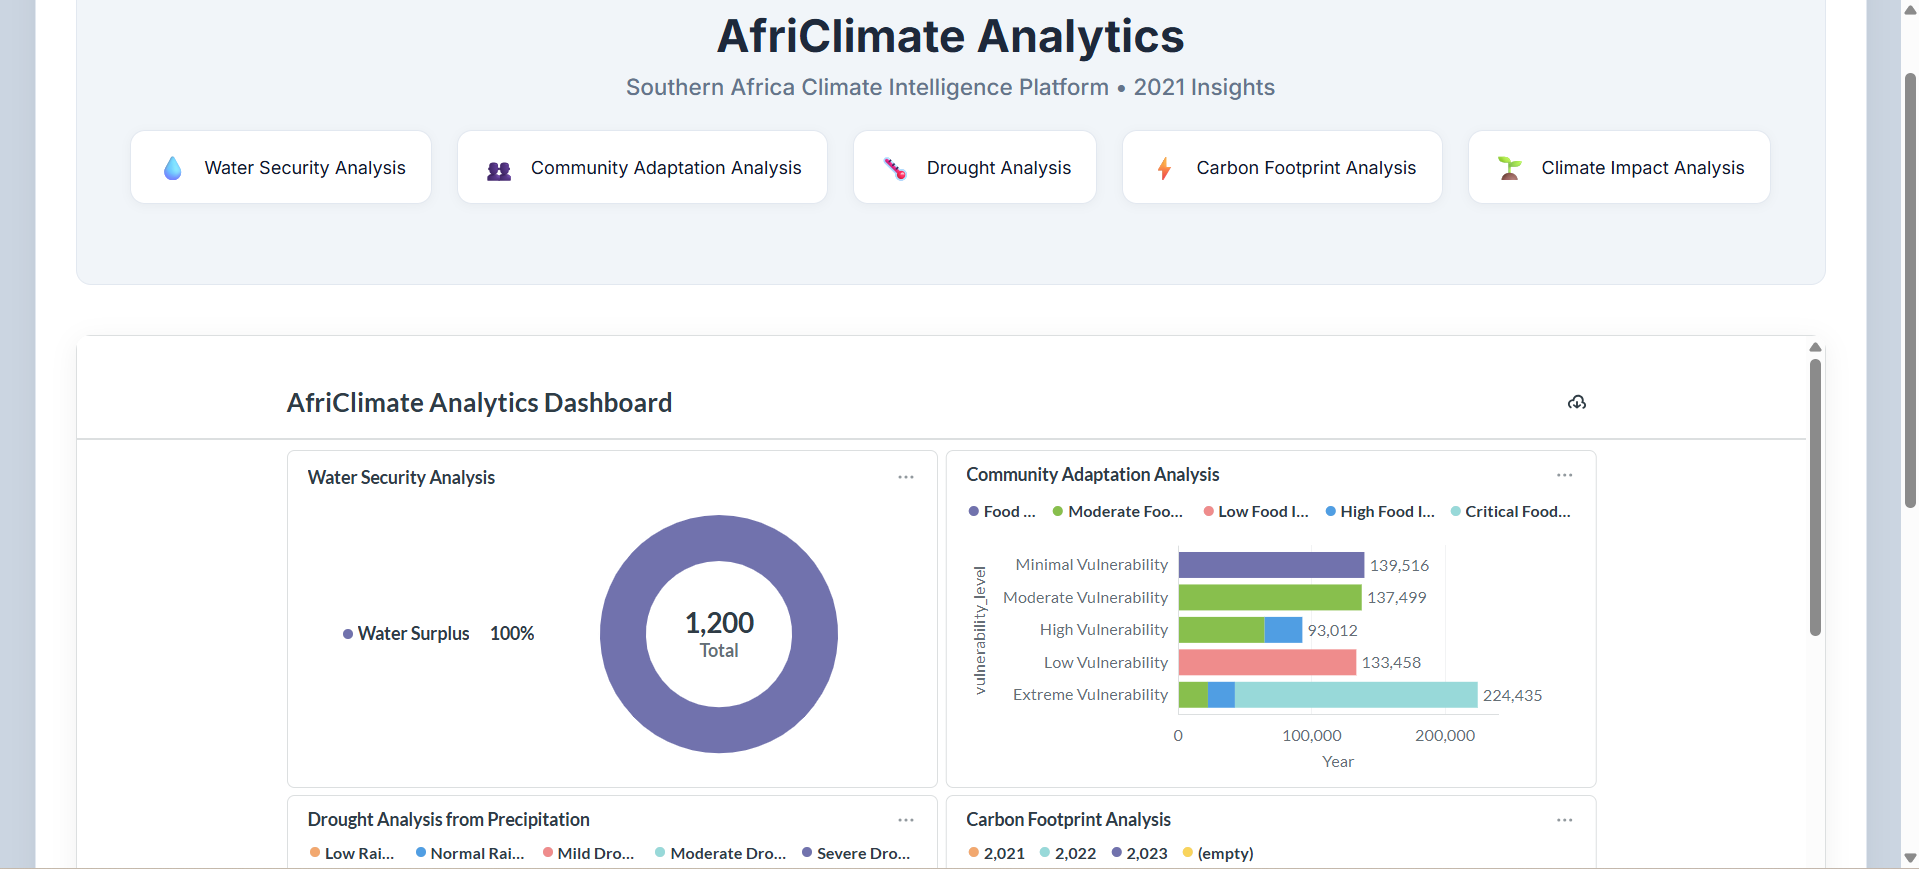
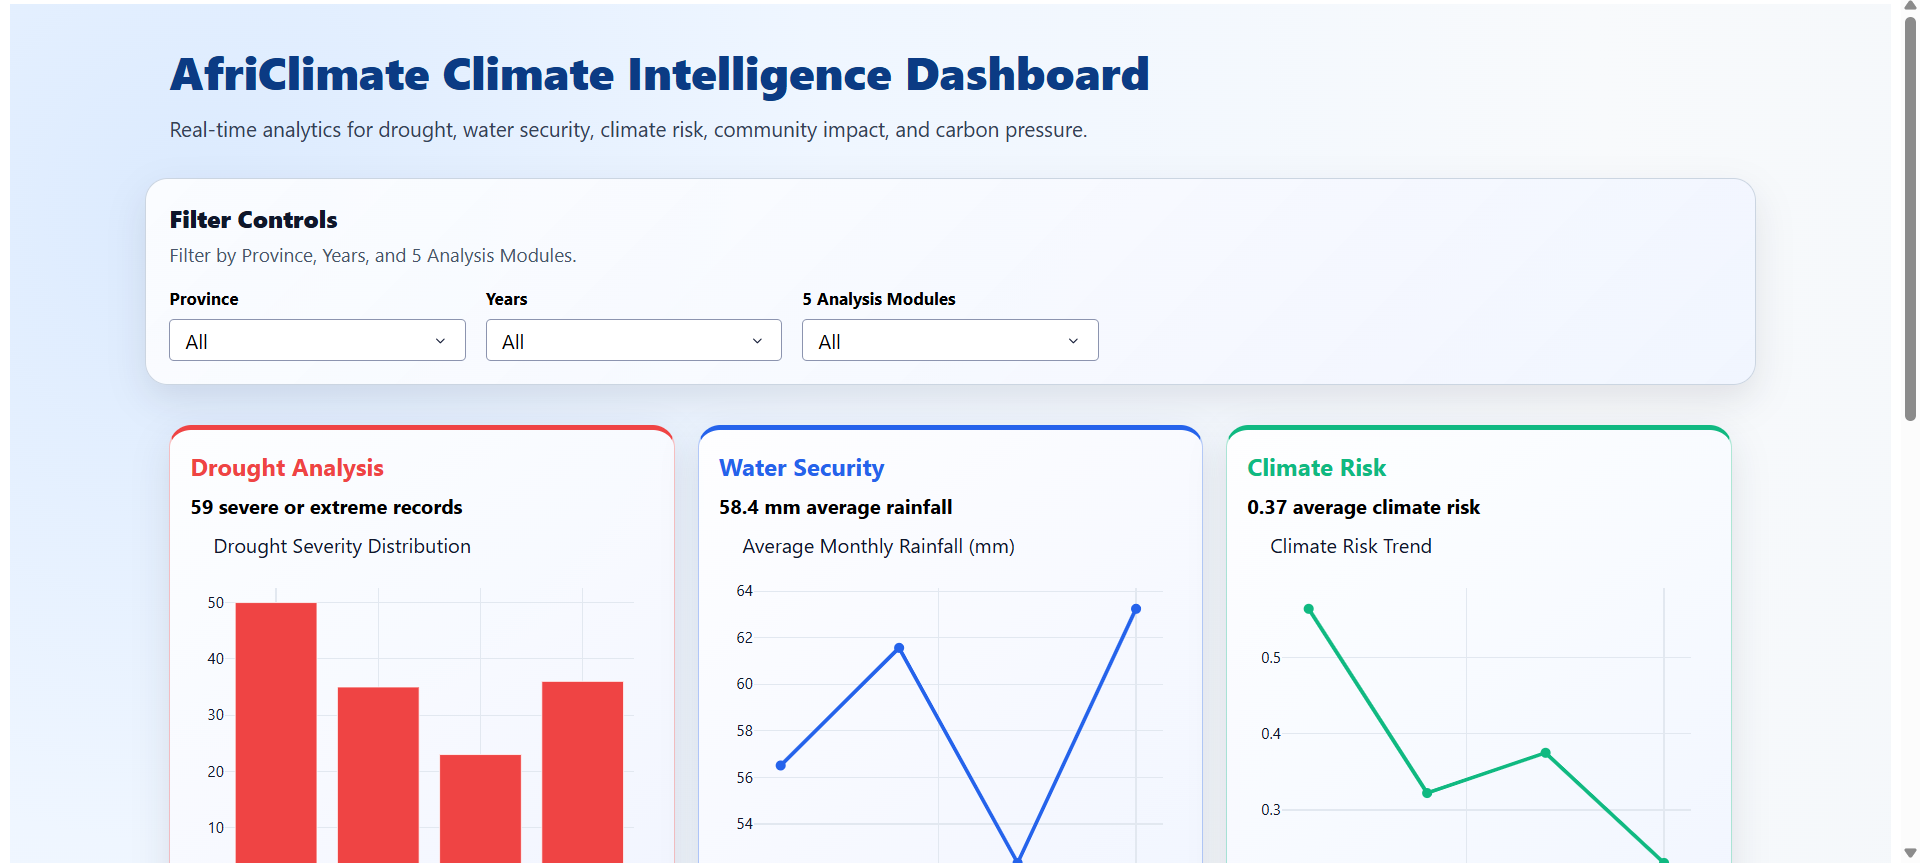
Align portfolio projects and content with latest repos

diff --git a/index.html b/index.html
@@ -3,20 +3,20 @@
 <head>
   <meta charset="utf-8" />
   <meta name="viewport" content="width=device-width,initial-scale=1" />
-  <title>Kutlwano Take — Full-Stack & Cloud Developer Portfolio</title>
-  <meta name="description" content="Full-Stack & Cloud Developer portfolio — AWS, React, Node.js, Terraform, serverless architectures." />
+  <title>Kutlwano Take - Full-Stack & Cloud Engineer Portfolio</title>
+  <meta name="description" content="Full-Stack & Cloud Engineer portfolio featuring AWS serverless apps, TypeScript and React frontends, Python analytics dashboards, and Terraform Infrastructure-as-Code." />
   <link rel="canonical" href="https://kutlwano-portfolio.vercel.app/">
   
   <meta property="og:type" content="website">
   <meta property="og:url" content="https://kutlwano-portfolio.vercel.app/">
-  <meta property="og:title" content="Kutlwano Take — Full-Stack & Cloud Developer Portfolio">
-  <meta property="og:description" content="Full-Stack & Cloud Developer specializing in AWS, React, Node.js, Terraform, and serverless architectures.">
+  <meta property="og:title" content="Kutlwano Take - Full-Stack & Cloud Engineer Portfolio">
+  <meta property="og:description" content="Full-Stack & Cloud Engineer specializing in AWS serverless architecture, TypeScript apps, Python analytics, and Terraform IaC.">
   <meta property="og:image" content="https://kutlwano-portfolio.vercel.app/images/profile.jp.jpeg">
   
   <meta property="twitter:card" content="summary_large_image">
   <meta property="twitter:url" content="https://kutlwano-portfolio.vercel.app/">
-  <meta property="twitter:title" content="Kutlwano Take — Full-Stack & Cloud Developer Portfolio">
-  <meta property="twitter:description" content="Full-Stack & Cloud Developer specializing in AWS, React, Node.js, Terraform, and serverless architectures.">
+  <meta property="twitter:title" content="Kutlwano Take - Full-Stack & Cloud Engineer Portfolio">
+  <meta property="twitter:description" content="Full-Stack & Cloud Engineer specializing in AWS serverless architecture, TypeScript apps, Python analytics, and Terraform IaC.">
   <meta property="twitter:image" content="https://kutlwano-portfolio.vercel.app/images/profile.jp.jpeg">
   
   <link rel="preconnect" href="https://fonts.googleapis.com">
@@ -34,7 +34,7 @@
       <div>
         <div class="name">Kutlwano Take</div>
         <div class="tagline">
-          Full-Stack & Cloud Developer | AWS Certified Developer Associate 2025
+          Full-Stack & Cloud Engineer | AWS Certified Developer Associate
         </div>
       </div>
     </div>
@@ -64,8 +64,8 @@
           <img src="images/profile.jp.jpeg" alt="Kutlwano Take" class="hero-image">
         </div>
         <h1 id="hero-title">Kutlwano Take</h1>
-        <p class="hero-subtitle">Full-Stack & Cloud Developer</p>
-        <p class="hero-bio">I design and develop scalable, production-ready applications using modern JavaScript, cloud architectures, and Infrastructure-as-Code. Specializing in AWS serverless solutions, React frontends, and secure backend systems.</p>
+        <p class="hero-subtitle">Full-Stack & Cloud Engineer</p>
+        <p class="hero-bio">I build production-grade cloud applications end-to-end: AWS serverless backends, TypeScript and React frontends, Terraform Infrastructure-as-Code, and Python analytics dashboards.</p>
         <div class="hero-actions">
           <a href="#projects" class="btn btn-primary">View Projects</a>
           <a href="#contact" class="btn btn-secondary">Contact Me</a>
@@ -77,8 +77,8 @@
       <div class="container">
         <h2 id="about-title">About Me</h2>
         <div class="content-card">
-          <p>I'm a Johannesburg-based Full-Stack & Cloud Engineer passionate about building fast, accessible, and production-ready applications. I specialise in modern JavaScript ecosystems (Vanilla JS, React, Node.js, Express), advanced prompt engineering with Google Gemini 1.5 Flash, and serverless architectures on AWS-Elastic Beanstalk, Lambda with Function URLs, RDS MySQL, IAM, Security Groups, API proxying, and CORS-hardened deployments in af-south-1.</p>
-          <p>I'm comfortable shipping responsive front-ends, designing secure back-ends, crafting CI/CD workflows with Git and Vercel, debugging complex cloud networking issues, and delivering everything from rapid prototypes to fully persistent, production-grade systems. AWS Certified Developer Associate 2025 holder with a love for clean code, thoughtful UX, and that satisfying moment when the console finally stays quiet. Coffee, soul music, and tough bugs keep me going.</p>
+          <p>I am a Johannesburg-based Full-Stack & Cloud Engineer focused on building secure, scalable applications across AWS and modern web platforms. My core stack spans AWS serverless services, Terraform IaC, TypeScript/React development, and Python data workflows.</p>
+          <p>Recent repository work includes AfriClimate Analytics Lake (Python, Dash, Plotly, Athena), SpendGuard (TypeScript serverless expense tracking on AWS), AWS Scalable To-Do App (React, Lambda, DynamoDB, Terraform), and Landmark Track (Next.js, TypeScript, Supabase). I prioritize reliable deployments, clean architecture, and practical user-centered design.</p>
         </div>
 
         <div class="certifications-card">
@@ -113,21 +113,25 @@
             <img src="https://cdn.jsdelivr.net/gh/devicons/devicon/icons/javascript/javascript-original.svg" alt="JavaScript" class="skill-logo">
             <span class="skill-name">JavaScript</span>
           </div>
+          <div class="skill-item" title="TypeScript">
+            <img src="https://cdn.jsdelivr.net/gh/devicons/devicon/icons/typescript/typescript-original.svg" alt="TypeScript" class="skill-logo">
+            <span class="skill-name">TypeScript</span>
+          </div>
+          <div class="skill-item" title="Python">
+            <img src="https://cdn.jsdelivr.net/gh/devicons/devicon/icons/python/python-original.svg" alt="Python" class="skill-logo">
+            <span class="skill-name">Python</span>
+          </div>
           <div class="skill-item" title="React">
             <img src="https://cdn.jsdelivr.net/gh/devicons/devicon/icons/react/react-original.svg" alt="React" class="skill-logo">
             <span class="skill-name">React</span>
           </div>
-          <div class="skill-item" title="Vite">
-            <img src="https://cdn.jsdelivr.net/gh/devicons/devicon/icons/vitejs/vitejs-original.svg" alt="Vite" class="skill-logo">
-            <span class="skill-name">Vite</span>
+          <div class="skill-item" title="Next.js">
+            <img src="https://cdn.jsdelivr.net/gh/devicons/devicon/icons/nextjs/nextjs-original.svg" alt="Next.js" class="skill-logo">
+            <span class="skill-name">Next.js</span>
           </div>
           <div class="skill-item" title="Node.js">
             <img src="https://cdn.jsdelivr.net/gh/devicons/devicon/icons/nodejs/nodejs-original.svg" alt="Node.js" class="skill-logo">
             <span class="skill-name">Node.js</span>
-          </div>
-          <div class="skill-item" title="Express">
-            <img src="https://cdn.jsdelivr.net/gh/devicons/devicon/icons/express/express-original.svg" alt="Express" class="skill-logo">
-            <span class="skill-name">Express</span>
           </div>
           <div class="skill-item" title="AWS">
             <img src="https://cdn.jsdelivr.net/gh/devicons/devicon/icons/amazonwebservices/amazonwebservices-original.svg" alt="AWS" class="skill-logo">
@@ -137,6 +141,14 @@
             <img src="https://cdn.jsdelivr.net/gh/devicons/devicon/icons/terraform/terraform-original.svg" alt="Terraform" class="skill-logo">
             <span class="skill-name">Terraform</span>
           </div>
+          <div class="skill-item" title="Tailwind CSS">
+            <img src="https://cdn.jsdelivr.net/gh/devicons/devicon/icons/tailwindcss/tailwindcss-original.svg" alt="Tailwind CSS" class="skill-logo">
+            <span class="skill-name">Tailwind CSS</span>
+          </div>
+          <div class="skill-item" title="Supabase">
+            <img src="https://cdn.jsdelivr.net/gh/devicons/devicon/icons/supabase/supabase-original.svg" alt="Supabase" class="skill-logo">
+            <span class="skill-name">Supabase</span>
+          </div>
           <div class="skill-item" title="Git">
             <img src="https://cdn.jsdelivr.net/gh/devicons/devicon/icons/git/git-original.svg" alt="Git" class="skill-logo">
             <span class="skill-name">Git</span>
@@ -144,14 +156,6 @@
           <div class="skill-item" title="GitHub">
             <img src="https://cdn.jsdelivr.net/gh/devicons/devicon/icons/github/github-original.svg" alt="GitHub" class="skill-logo">
             <span class="skill-name">GitHub</span>
-          </div>
-          <div class="skill-item" title="Docker">
-            <img src="https://cdn.jsdelivr.net/gh/devicons/devicon/icons/docker/docker-original.svg" alt="Docker" class="skill-logo">
-            <span class="skill-name">Docker</span>
-          </div>
-          <div class="skill-item" title="Kubernetes">
-            <img src="https://cdn.jsdelivr.net/gh/devicons/devicon/icons/kubernetes/kubernetes-plain.svg" alt="Kubernetes" class="skill-logo">
-            <span class="skill-name">Kubernetes</span>
           </div>
         </div>
       </div>
@@ -162,34 +166,36 @@
         <h2 id="projects-title">Selected Projects</h2>
         <div class="projects-grid" id="projects-grid">
 
-          <article class="project-card" aria-labelledby="p1">
-            <img src="images/aws-todo-app.png" alt="Screenshot of AWS Scalable To-Do List application showing a dark-themed interface with to-do items" loading="lazy" class="project-image">
+          <article class="project-card project-africlimate" aria-labelledby="p1">
+            <img src="images/africlimate-dashboard-screenshot.png" alt="Screenshot of AfriClimate Analytics Dash application showing drought, water security, climate risk, community impact, and carbon analytics modules" loading="lazy" class="project-image">
             <div class="project-content">
-              <h3 id="p1">AWS Scalable To-Do List App</h3>
-              <p>Full-stack serverless application with DynamoDB storage, S3 + CloudFront frontend, Lambda + API Gateway backend, and Terraform infrastructure. Features production-ready security and scalable cloud architecture.</p>
+              <h3 id="p1">AfriClimate Analytics Lake - Climate Intelligence Platform</h3>
+              <p>Production-ready climate analytics platform for Southern Africa with a serverless AWS data pipeline and live Dash application. It ingests CHIRPS climate data into S3, processes it with Lambda, catalogs data in Glue, and serves analytics through Athena with an interactive 5-module dashboard for drought, water security, climate risk, community impact, and carbon insights. Deployed on Render with Gunicorn and a fallback dataset mode for reliable public demo access.</p>
               <div class="tech-stack">
-                <span class="pill">HTML</span>
-                <span class="pill">CSS</span>
-                <span class="pill">JavaScript</span>
-                <span class="pill">Node.js (Lambda)</span>
-                <span class="pill">Terraform (IaC)</span>
+                <span class="pill">Python 3.11</span>
+                <span class="pill">Dash</span>
+                <span class="pill">Plotly</span>
                 <span class="pill">AWS S3</span>
-                <span class="pill">CloudFront</span>
-                <span class="pill">API Gateway</span>
-                <span class="pill">Lambda</span>
-                <span class="pill">DynamoDB</span>
+                <span class="pill">AWS Lambda</span>
+                <span class="pill">AWS Glue</span>
+                <span class="pill">Amazon Athena</span>
+                <span class="pill">Boto3</span>
+                <span class="pill">Pandas</span>
+                <span class="pill">Render</span>
+                <span class="pill">Gunicorn</span>
+                <span class="pill">CHIRPS Data</span>
               </div>
               <div class="project-actions">
-                <a class="btn" href="https://dnz0gkceadoio.cloudfront.net/" target="_blank" rel="noopener" aria-label="View AWS To-Do List App live">View Live</a>
-                <a class="btn btn-secondary" href="https://github.com/Kutlwano-Take/aws-scalable-todo-app" target="_blank" rel="noopener" aria-label="View AWS To-Do List App on GitHub">GitHub</a>
+                <a class="btn" href="https://africlimate-analytics-lake.onrender.com/" target="_blank" rel="noopener" aria-label="View AfriClimate Analytics live">View Live</a>
+                <a class="btn btn-secondary" href="https://github.com/Kutlwano-Take/africlimate-analytics-lake" target="_blank" rel="noopener" aria-label="View AfriClimate Analytics on GitHub">GitHub</a>
               </div>
             </div>
           </article>
 
-          <article class="project-card" aria-labelledby="p2">
+          <article class="project-card project-spendguard" aria-labelledby="p2">
             <img src="images/spendguard-screenshot.png" alt="Screenshot of SpendGuard personal expense tracker dashboard showing budget progress rings, expense list, and alerts" loading="lazy" class="project-image">
             <div class="project-content">
-              <h3 id="p2">SpendGuard – Smart Personal Expense & Budget Tracker</h3>
+              <h3 id="p2">SpendGuard - Smart Personal Expense & Budget Tracker</h3>
               <p>Production-ready, full-stack serverless expense tracker that helps users monitor spending, set category budgets, receive real-time overspending alerts, and gain AI-powered insights. Features secure authentication, receipt OCR scanning, progress visualizations, and predictive analytics, all built with a clean, premium UX.</p>
               <div class="tech-stack">
                 <span class="pill">React + TypeScript</span>
@@ -210,26 +216,26 @@
             </div>
           </article>
 
-          <article class="project-card" aria-labelledby="p3">
-            <img src="images/africlimate-dashboard-screenshot.png" alt="Screenshot of AfriClimate Analytics Dashboard showing interactive climate data visualizations with precipitation maps, drought analysis, and water security metrics" loading="lazy" class="project-image">
+          <article class="project-card project-todo" aria-labelledby="p3">
+            <img src="images/aws-todo-app.png" alt="Screenshot of AWS Scalable To-Do List application showing a dark-themed interface with to-do items" loading="lazy" class="project-image">
             <div class="project-content">
-              <h3 id="p3">AfriClimate Analytics – Climate Intelligence Platform</h3>
-              <p>Serverless climate intelligence platform for Southern Africa featuring real-time drought monitoring, water security analysis, and climate impact tracking. Built with AWS serverless architecture, processing 536 CHIRPS satellite data files (2.9 GiB) with automated ETL pipelines. Features interactive dashboards, 5 creative extensions for farmers/water managers/conservationists, and professional Metabase visualizations deployed on S3.</p>
+              <h3 id="p3">AWS Scalable To-Do List App</h3>
+              <p>Production-ready full-stack serverless To-Do application with a React + TypeScript (Vite) frontend on S3 + CloudFront, AWS Lambda + API Gateway backend services, DynamoDB persistence, and Terraform-managed infrastructure.</p>
               <div class="tech-stack">
-                <span class="pill">AWS S3</span>
+                <span class="pill">React</span>
+                <span class="pill">TypeScript</span>
+                <span class="pill">Vite</span>
                 <span class="pill">AWS Lambda</span>
-                <span class="pill">AWS Glue</span>
-                <span class="pill">Amazon Athena</span>
-                <span class="pill">Metabase</span>
-                <span class="pill">Python</span>
-                <span class="pill">Docker</span>
-                <span class="pill">CHIRPS Data</span>
-                <span class="pill">Serverless Architecture</span>
-                <span class="pill">Data Engineering</span>
+                <span class="pill">Amazon API Gateway</span>
+                <span class="pill">DynamoDB</span>
+                <span class="pill">AWS S3</span>
+                <span class="pill">CloudFront</span>
+                <span class="pill">Terraform</span>
+                <span class="pill">CloudWatch</span>
               </div>
               <div class="project-actions">
-                <a class="btn" href="https://africlimate-dashboard-public.s3.af-south-1.amazonaws.com/index.html" target="_blank" rel="noopener" aria-label="View AfriClimate Analytics live">View Live</a>
-                <a class="btn btn-secondary" href="https://github.com/Kutlwano-Take/africlimate-analytics-lake" target="_blank" rel="noopener" aria-label="View AfriClimate Analytics on GitHub">GitHub</a>
+                <a class="btn" href="https://dnz0gkceadoio.cloudfront.net/" target="_blank" rel="noopener" aria-label="View AWS To-Do List App live">View Live</a>
+                <a class="btn btn-secondary" href="https://github.com/Kutlwano-Take/aws-scalable-todo-app" target="_blank" rel="noopener" aria-label="View AWS To-Do List App on GitHub">GitHub</a>
               </div>
             </div>
           </article>
@@ -263,7 +269,7 @@
 
           <div class="form-group">
             <label for="message">Message</label>
-            <textarea id="message" name="message" rows="6" required placeholder="Hey Kutlwano, I came across your portfolio and…"></textarea>
+            <textarea id="message" name="message" rows="6" required placeholder="Hey Kutlwano, I came across your portfolio and..."></textarea>
           </div>
 
           <button type="submit" class="btn btn-primary">Send Message</button>
@@ -282,7 +288,7 @@
 
   <footer>
     <div class="footer-content">
-      <div>© <span id="year"></span> Kutlwano Take</div>
+      <div>&copy; <span id="year"></span> Kutlwano Take</div>
       <div class="social-links">
         <a href="https://github.com/Kutlwano-Take" target="_blank" rel="noopener noreferrer" aria-label="GitHub Profile" class="social-link">
           <svg width="20" height="20" viewBox="0 0 24 24" fill="currentColor" aria-hidden="true">

diff --git a/style.css b/style.css
@@ -470,6 +470,18 @@ p {
     grid-template-columns: repeat(3, 1fr);
     align-items: stretch;
   }
+
+  .project-card.project-todo {
+    order: 3;
+  }
+
+  .project-card.project-spendguard {
+    order: 2;
+  }
+
+  .project-card.project-africlimate {
+    order: 1;
+  }
 }
 
 .project-card {
